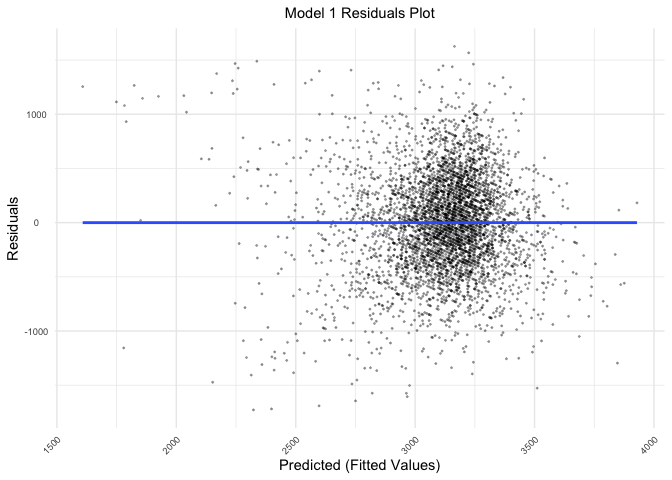
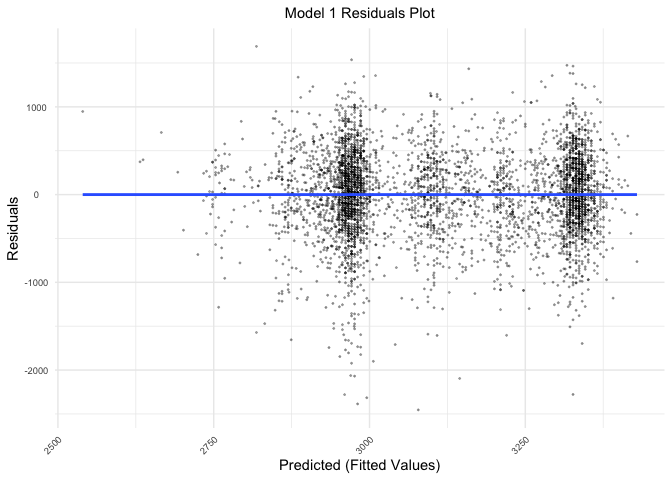
Final knit with completed Problems 2 and 3!

diff --git a/p8105_hw6_sjz2120.md b/p8105_hw6_sjz2120.md
@@ -77,7 +77,7 @@ is white or Black.
 homicides_df =
   homicides %>%
   mutate(city_state = paste(city, state, sep = ", "),  # Create `city_state` and `solved` variables
-         solved = ifelse(disposition %in% c("Closed by arrest", "Closed without arrest"), 1, 0)) %>%
+         solved = ifelse(disposition == "Closed by arrest", 1, 0)) %>%
   filter(!(city_state %in% c("Dallas, TX",
                              "Phoenix, AZ",
                              "Kansas City, MO",
@@ -86,23 +86,19 @@ homicides_df =
   mutate(victim_age = as.numeric(victim_age),
          reported_date = as.character(reported_date),
          reported_date = as.Date(reported_date, "%Y%m%d")) %>% # Change variable types
-  select(victim_race, victim_age, victim_sex, city_state, solved)
-```
-
-    ## Warning in mask$eval_all_mutate(quo): NAs introduced by coercion
-
-``` r
+  select(victim_race, victim_age, victim_sex, city_state, solved) # Keep only the relevant variables
+  
 homicides_df
 ```
 
     ## # A tibble: 39,693 × 5
     ##    victim_race victim_age victim_sex city_state      solved
     ##    <chr>            <dbl> <chr>      <chr>            <dbl>
-    ##  1 White               15 Female     Albuquerque, NM      1
-    ##  2 White               72 Female     Albuquerque, NM      1
+    ##  1 White               15 Female     Albuquerque, NM      0
+    ##  2 White               72 Female     Albuquerque, NM      0
     ##  3 White               91 Female     Albuquerque, NM      0
     ##  4 White               56 Male       Albuquerque, NM      0
-    ##  5 White               NA Male       Albuquerque, NM      1
+    ##  5 White               NA Male       Albuquerque, NM      0
     ##  6 White               43 Female     Albuquerque, NM      1
     ##  7 White               52 Male       Albuquerque, NM      1
     ##  8 White               22 Female     Albuquerque, NM      1
@@ -128,8 +124,8 @@ regression with resolved vs unresolved homicides (as the outcome) and
 victim age, sex, and race as predictors. The GLM output has been saved
 as `baltimore_glm`, and has been tidied. Additionally, I’ve created
 columns in `baltimore_glm` for the estimate and confidence interval of
-the adjusted odds ratio for solving homicides comparing male victims to
-female victims, keeping all other variables fixed.
+the adjusted odds ratio for solving homicides, keeping all other
+variables fixed.
 
 ``` r
 # Creating a dataframe with only Baltimore, MD homicides data
@@ -155,17 +151,38 @@ baltimore_glm
     ## # A tibble: 4 × 8
     ##   term             estimate std_error statistic  p_value    OR CI_lower CI_upper
     ##   <chr>               <dbl>     <dbl>     <dbl>    <dbl> <dbl>    <dbl>    <dbl>
-    ## 1 (Intercept)       0.664     0.174        3.80 1.42e- 4 1.94     1.38     2.73 
-    ## 2 victim_age       -0.00520   0.00325     -1.60 1.10e- 1 0.995    0.988    1.00 
-    ## 3 victim_sexMale   -1.04      0.143       -7.26 3.74e-13 0.355    0.268    0.469
-    ## 4 victim_raceWhite  0.900     0.180        4.99 6.04e- 7 2.46     1.73     3.50
+    ## 1 (Intercept)       0.310     0.171        1.81 7.04e- 2 1.36     0.975    1.91 
+    ## 2 victim_age       -0.00673   0.00332     -2.02 4.30e- 2 0.993    0.987    1.00 
+    ## 3 victim_sexMale   -0.854     0.138       -6.18 6.26e-10 0.426    0.325    0.558
+    ## 4 victim_raceWhite  0.842     0.175        4.82 1.45e- 6 2.32     1.65     3.27
+
+Now, let’s obtain the estimate and confidence interval of the adjusted
+odds ratio for solving homicides comparing male victims to female
+victims, keeping all other variables fixed.
+
+``` r
+baltimore_glm %>%
+  filter(term == "victim_sexMale") %>%
+  select(OR, CI_lower, CI_upper) %>%
+  knitr::kable(col.names = c('Odds Ratio', 'CI (lower)', 'CI (upper)'))
+```
+
+| Odds Ratio | CI (lower) | CI (upper) |
+|-----------:|-----------:|-----------:|
+|  0.4255117 |   0.324559 |  0.5578655 |
+
+- The adjusted odds ratio for solving homicides comparing male victims
+  to female victims (keeping all other variables fixed) is OR =
+  0.4255117 (95% CI: 0.324559, 0.5578655).
 
 ### Solving homicides in each city
 
 Below, I’ve run a GLM for each of the cities in the `homicides_df`
-dataset and saved the output as `homicides_glm_df`. Like the previous
-section, I’ve additionally extract the adjusted odds ratio (and CI) for
-solving homicides comparing male victims to female victims.
+dataset and saved the output as `homicides_glm_df`. I’ve additionally
+extract the adjusted odds ratio (and CI) for solving homicides comparing
+male victims to female victims (keeping all other factors constant) for
+each city, and have saved this more limited dataframe as
+`homicides_glm_gender_df`.
 
 ``` r
 homicides_glm_df =
@@ -179,36 +196,23 @@ homicides_glm_df =
          CI_lower = exp(estimate - 1.96*std.error),
          CI_upper = exp(estimate + 1.96*std.error)) %>%
   select(city_state, term, OR, CI_lower, CI_upper)
-  
-homicides_glm_df
-```
 
-    ## # A tibble: 193 × 5
-    ##    city_state      term                      OR CI_lower CI_upper
-    ##    <chr>           <chr>                  <dbl>    <dbl>    <dbl>
-    ##  1 Albuquerque, NM (Intercept)            8.45     1.68    42.5  
-    ##  2 Albuquerque, NM victim_age             0.986    0.965    1.01 
-    ##  3 Albuquerque, NM victim_sexMale         0.430    0.148    1.25 
-    ##  4 Albuquerque, NM victim_sexUnknown 383546.       0      Inf    
-    ##  5 Albuquerque, NM victim_raceWhite       1.65     0.688    3.98 
-    ##  6 Atlanta, GA     (Intercept)            5.57     3.23     9.59 
-    ##  7 Atlanta, GA     victim_age             0.989    0.979    0.998
-    ##  8 Atlanta, GA     victim_sexMale         0.512    0.328    0.799
-    ##  9 Atlanta, GA     victim_raceWhite       1.23     0.681    2.22 
-    ## 10 Baltimore, MD   (Intercept)            1.94     1.38     2.73 
-    ## # … with 183 more rows
+homicides_glm_gender_df =
+  homicides_glm_df %>%
+  filter(term == "victim_sexMale") %>%
+  select(city_state, OR, CI_lower, CI_upper)
+```
 
 ### Plot visualizing solving homicides for each city
 
-Below, I’ve created a plot called `homicides_mvf_plot` that shows the
+Below, I’ve created a plot called `homicides_gender_plot` that shows the
 estimated ORs and CIs for solving homicides comparing male victims to
 female victims in each city. The cities are organized according to
 estimated OR.
 
 ``` r
-homicides_mvf_plot =
-  homicides_glm_df %>%
-  filter(term == "victim_sexMale") %>% 
+homicides_gender_plot =
+  homicides_glm_gender_df %>%
   mutate(city_state = fct_reorder(city_state, OR)) %>%
   ggplot(aes(x = city_state, y = OR)) +
   geom_point(alpha = 0.5) +
@@ -220,26 +224,46 @@ homicides_mvf_plot =
         y = "Estimated ORs for solved homicides, male vs female (w/95% CI)") +
   theme(plot.title = element_text(size = 11, hjust = 0.5),
         plot.subtitle = element_text(size = 10, hjust = 0.5),
-        axis.text.x = element_text(size = 7, angle = 45, hjust = 1),
+        axis.text.x = element_text(size = 7, angle = 60, hjust = 1),
         axis.text.y = element_text(size = 7, hjust = 0.5),
         legend.position = "none")
+
+homicides_gender_plot
 ```
 
-\[\]
+![](p8105_hw6_sjz2120_files/figure-gfm/plotting-homicides-1.png)<!-- -->
 
-\<\>
+#### Describing the solved homicides comparing victim sex
+
+From the `homicides_gender_plot` above, we see that New York, NY has the
+lowest adjusted OR for solving homicides comparing male victims to
+female victims keeping all other variables fixed; while Albuquerque, NM
+has the highest.
+
+An OR = 1 would mean that there is no association between victim sex and
+homicide solve status (i.e. no disparity in homicide case solving among
+the sexes). However, we see that most of the cities have an adjusted OR
+\< 1 for solving homicides comparing male victims to female victims,
+indicating that homicide cases involving male victims have lower odds of
+being solved compared to cases involving female victims. On the other
+hand, cities with ORs higher than 1 (including Nashville, TN; Fresno,
+CA; Stockton, CA; and Albuquerque, NM) are cities where homicide cases
+involving male victims have higher odds of being solved compared to
+cases involving female victims.
 
 # Problem 3
 
-In this problem, you will analyze data gathered to understand the
-effects of several variables on a child’s birthweight. This dataset,
-available here, consists of roughly 4000 children and includes the
-following variables:
+Now let’s analyze data gathered to understand the effects of several
+variables on a child’s birthweight. The dataset `birthweight.csv` is
+located in the `data` folder in this RProject. It consists of roughly
+4000 children and includes many variables related to maternal and
+newborn status measured during childbirth.
 
 ### Loading and cleaning the `birthweight_df` dataset
 
-Load and clean the data for regression analysis (i.e. convert numeric to
-factor where appropriate, check for missing data, etc.).
+Below, I’ve loaded in and cleaned the data for regression analysis,
+converting numeric to factor where appropriate. The dataset is saved as
+`birthweight_df`
 
 ``` r
 # Let's load in the dataset!
@@ -271,8 +295,9 @@ birthweight_df
     ## #   mrace <fct>, parity <dbl>, pnumlbw <dbl>, pnumsga <dbl>, ppbmi <dbl>,
     ## #   ppwt <dbl>, smoken <dbl>, wtgain <dbl>
 
-Now let’s check for missing data in `birthweight_df`! There seems to be
-0 missing data for all of the variables in the dataframe:)
+Now let’s finish cleaning the dataset and check for missing data in
+`birthweight_df`! There seems to be 0 missing data for all of the
+variables in the dataframe:)
 
 ``` r
 # Let's check for missing data:
@@ -367,7 +392,7 @@ wtgain:
   Rican, 8 = Other)
 - `parity`: number of live births prior to this pregnancy
 - `pnumlbw`: previous number of low birth weight babies
-- `pnumgsa`: number of prior small for gestational age babies
+- `pnumsga`: number of prior small for gestational age babies
 - `ppbmi`: mother’s pre-pregnancy BMI
 - `ppwt`: mother’s pre-pregnancy weight (pounds)
 - `smoken`: average number of cigarettes smoked per day during pregnancy
@@ -378,25 +403,45 @@ wtgain:
 Propose a regression model for birthweight. This model may be based on a
 hypothesized structure for the factors that underly birthweight, on a
 data-driven model-building process, or a combination of the two.
-Describe your modeling process.
+
+A quick Google search of factors which affect birthweight (including the
+Wikipedia page
+\[<https://en.wikipedia.org/wiki/Birth_weight#Determinants>\] and the
+articles cited by the page) suggest that factors such as maternal age at
+birth (`momage`), number of prior births (`parity`), and smoking during
+pregnancy (`smoken`) have all been found to be significantly associated
+with birthweight. Additionally, sociodemographic factors such as race
+(`mrace`) – and specifically increased stress caused by racism – have
+also been found to be associated with birthweight.
+
+That’s why for `model_1` below I chose to include the variables
+`momage`, `parity`, `smoken`, and `mrace` as predictors of birthweight.
+I chose not to include an interaction term between any of the variables,
+since I wasn’t able to find much data suggesting an interaction between
+any of the chosen predictors in relation to birthweight.
 
 ``` r
 # Model 1: Monthly income, gestational age, mother's age at delivery, number of live births prior to this pregnancy, number of prior small for gestational age babies, mother's pre-pregnancy BMI
-model_1 = lm(bwt ~ gaweeks + momage + parity + ppbmi, data = birthweight_df)
+model_1 = lm(bwt ~ momage + parity + smoken + mrace, data = birthweight_df)
 model_1
 ```
 
     ## 
     ## Call:
-    ## lm(formula = bwt ~ gaweeks + momage + parity + ppbmi, data = birthweight_df)
+    ## lm(formula = bwt ~ momage + parity + smoken + mrace, data = birthweight_df)
     ## 
     ## Coefficients:
-    ## (Intercept)      gaweeks       momage       parity        ppbmi  
-    ##       52.52        65.31        10.92        98.65        12.29
+    ## (Intercept)       momage       parity       smoken       mrace2       mrace3  
+    ##    3228.872        4.886      -39.487      -11.152     -345.643     -203.796  
+    ##      mrace4  
+    ##    -238.619
 
-Show a plot of model residuals against fitted values – use
-add_predictions and add_residuals from the modelr package in making this
-plot.
+### Residual plot for our (first) birthweight model
+
+Below, I’ve created a plot of model residuals against fitted values for
+the birthweight regression model previously created. I’ve used
+`add_predictions` and `add_residuals` from the `modelr` package to make
+this plot.
 
 ``` r
 residual_plot =
@@ -422,13 +467,18 @@ residual_plot
 
 ![](p8105_hw6_sjz2120_files/figure-gfm/model-1-residual-plot-1.png)<!-- -->
 
+There seem to be two more dense clusters, but otherwise the residuals
+seem to be centered around 0 and spread evenly on either side of the
+zero line.
+
 ### Creating more regression models for birthweight
 
-Compare your model to two others:
+Let’s fit two other linear regression models:
 
-One using length at birth and gestational age as predictors (main
-effects only) One using head circumference, length, sex, and all
-interactions (including the three-way interaction) between these
+- **Model 2**: Using length at birth and gestational age as predictors
+  (main effects only)
+- **Model 3**: Using head circumference, length, sex, and all
+  interactions (including the three-way interaction) between these
 
 ``` r
 # Model 2: Length at birth and gestational age as predictors (main effects only)
@@ -468,8 +518,62 @@ model_3
 
 ### Cross validation of our regression models
 
-Let’s compare model 1 to these models 2 and 3! Make this comparison in
-terms of the cross-validated prediction error; use crossv_mc and
-functions in purrr as appropriate. Note that although we expect your
-model to be reasonable, model building itself is not a main idea of the
-course and we don’t necessarily expect your model to be “optimal”.
+Let’s compare model 1 to these models 2 and 3! We’ll make this
+comparison in terms of the cross-validated prediction error, using
+`crossv_mc` and functions in `purrr` (see code chunk below).
+
+``` r
+# Initial setup for cross validation
+cv_df =
+  crossv_mc(birthweight_df, 100) %>%
+  mutate(train = map(train, as_tibble),
+         test = map(test, as_tibble))
+
+# Cross validating our 3 models
+cv_df = 
+  cv_df %>%
+  mutate(
+    model_1 = map(train, ~lm(bwt ~ momage + parity + smoken + mrace, data = .x)),
+    model_2 = map(train, ~lm(bwt ~ blength + gaweeks, data = .x)),
+    model_3 = map(train, ~lm(bwt ~ bhead + blength + babysex + bhead*blength + bhead*babysex + blength*babysex + bhead*blength*babysex, data = .x))
+    ) %>%
+  mutate(
+    rmse_model_1 = map2_dbl(model_1, test, ~rmse(model = .x, data = .y)),
+    rmse_model_2 = map2_dbl(model_2, test, ~rmse(model = .x, data = .y)),
+    rmse_model_3 = map2_dbl(model_3, test, ~rmse(model = .x, data = .y))
+    )
+```
+
+Now we can compare the 3 models using a violin plot:
+
+``` r
+compare_models_plot =
+  cv_df %>%
+  select(starts_with("rmse")) %>%
+  pivot_longer(
+    everything(),
+    names_to = "model", 
+    values_to = "rmse",
+    names_prefix = "rmse_") %>% 
+  mutate(model = fct_inorder(model)) %>% 
+  ggplot(aes(x = model, y = rmse)) +
+  geom_violin() +
+  labs(title = "Comparing Our Models for Birthweight",
+      x = "Model",
+      y = "rmse") +
+  theme(plot.title = element_text(size = 12, hjust = 0.5))
+
+compare_models_plot
+```
+
+![](p8105_hw6_sjz2120_files/figure-gfm/compare-models-plot-1.png)<!-- -->
+
+*Note that although we expect your model to be reasonable, model
+building itself is not a main idea of the course and we don’t
+necessarily expect your model to be “optimal”.*
+
+Thank goodness for this because `model_1` (the model I created based on
+a purely hypothesized structure for the factors that underly
+birthweight) has the largest rmse among all the models, suggesting that
+it’s the worst performing out of all of the linear models in terms of
+predictive accuracy 😞
